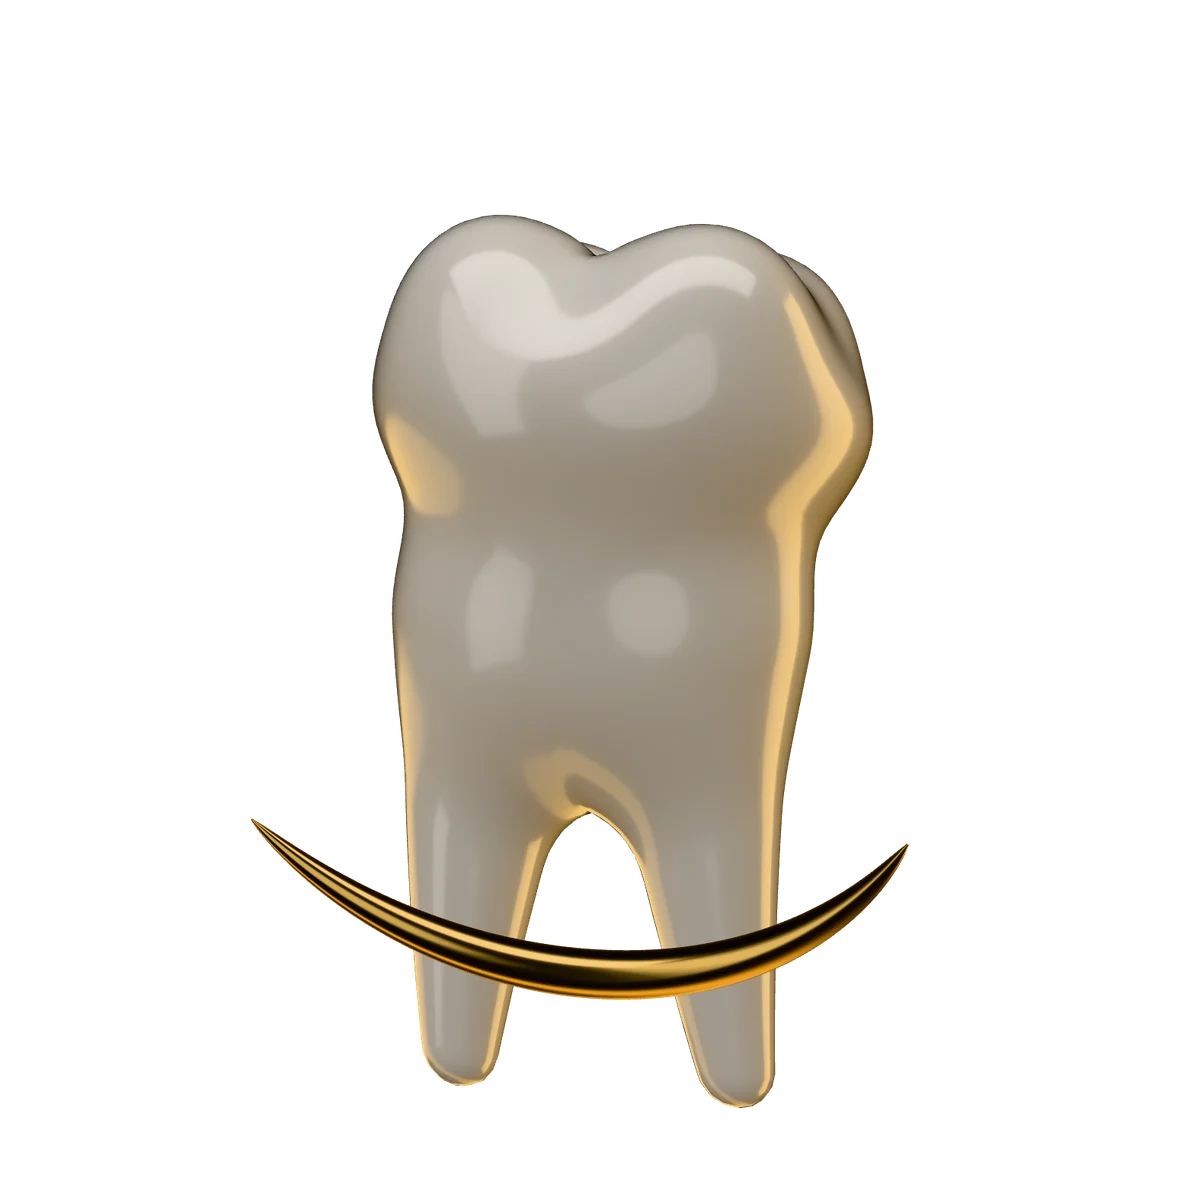
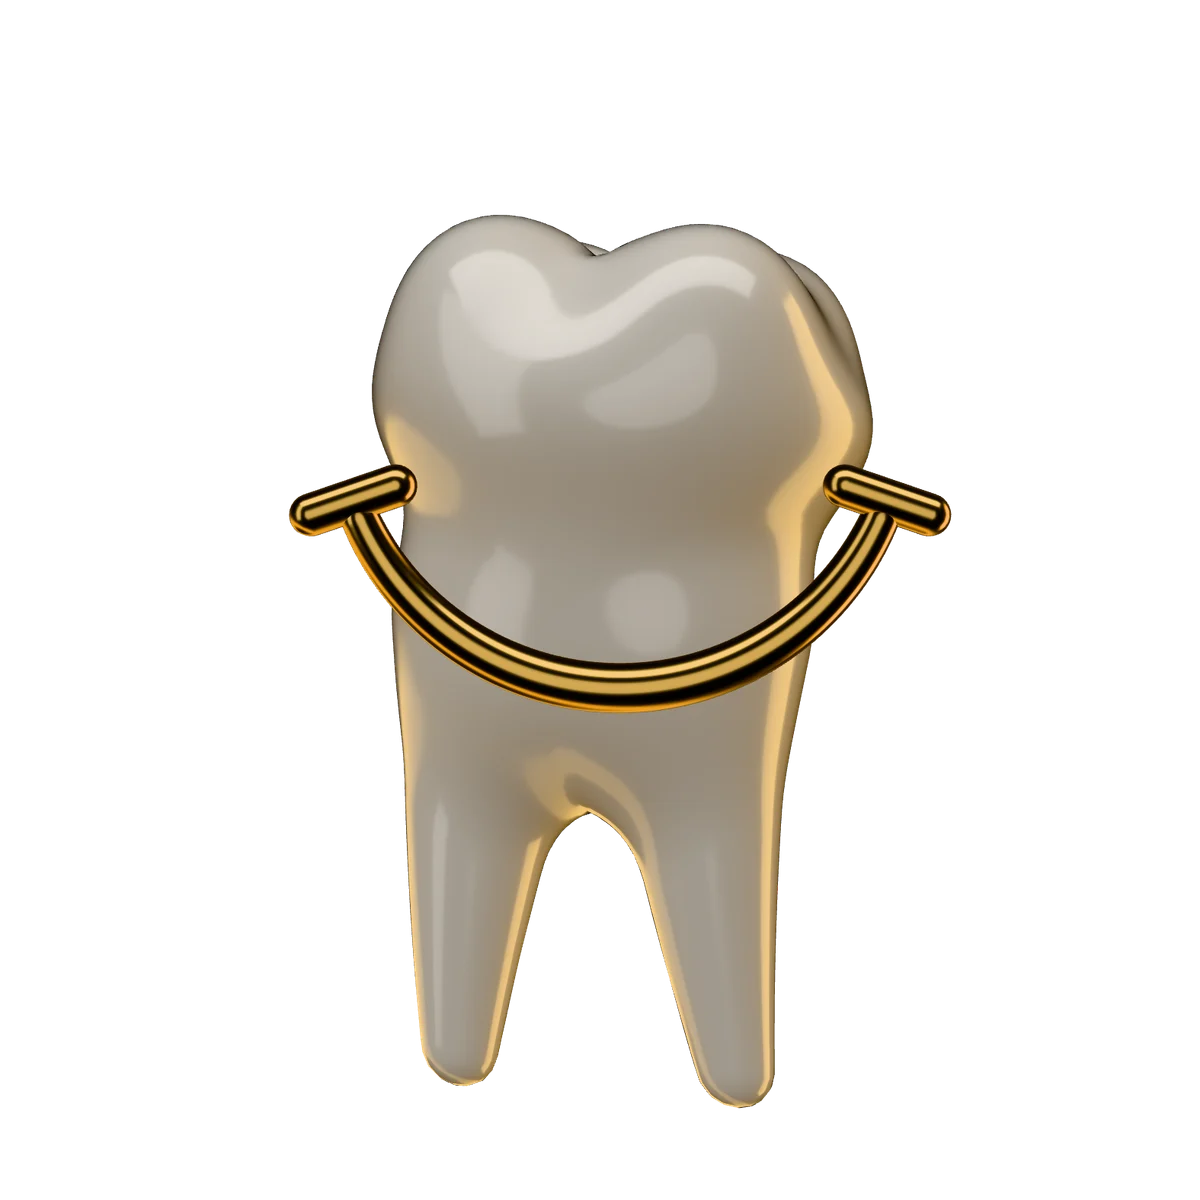
Hero: zlatni osmijeh kao smajli preko sredine zuba
Osmijeh je sada simetričan luk sa crticama na oba kraja, preko sredine zuba i okrenut prema posjetiocu.
Na telefonu je zub uvećan da popuni prostor bez praznih rubova; poster je ponovo izrenderan.

Changed region(s): [[0.2467, 0.37, 0.8017, 0.6167], [0.2158, 0.6783, 0.7708, 0.8325]]

diff --git a/src/components/three/ToothScene.tsx b/src/components/three/ToothScene.tsx
@@ -1,65 +1,12 @@
 'use client';
 
 import { useEffect, useRef } from 'react';
-import {
-  BufferAttribute,
-  BufferGeometry,
-  Color,
-  DoubleSide,
-  Group,
-  MathUtils,
-  Mesh,
-  MeshBasicMaterial,
-  MeshPhysicalMaterial,
-  MeshStandardMaterial,
-  NeutralToneMapping,
-  PerspectiveCamera,
-  PlaneGeometry,
-  PMREMGenerator,
-  RingGeometry,
-  Scene,
-  WebGLRenderer,
-} from 'three';
+import { Group, MathUtils, Mesh, PerspectiveCamera, Scene, Vector3 } from 'three';
 import { buildSmileGeometry } from './smile';
+import { createRenderer, goldMetal, loadLayers, porcelain, studioEnvironment } from './studio';
 
-const SMILE_ARC = Math.PI * 0.62;
+const SMILE_ARC = Math.PI * 0.8;
 const SPIN_START = -0.35;
-const GOLD = '#c9a35c';
-
-type Panel = { color: string; intensity: number; at: [number, number, number]; size: [number, number]; ring?: number };
-
-// White soft boxes plus a gold rim light, baked once into an environment map.
-const PANELS: Panel[] = [
-  { color: '#ffffff', intensity: 2.6, at: [0, 5, 2], size: [10, 3] },
-  { color: '#ffffff', intensity: 1.4, at: [-6, 1, 3], size: [3, 8] },
-  { color: GOLD, intensity: 7, at: [6, -1, -2], size: [3, 10] },
-  { color: '#ffffff', intensity: 1.2, at: [0, 0, 9], size: [4, 4], ring: 0 },
-  { color: GOLD, intensity: 3, at: [-3, -5, -4], size: [6, 6], ring: 0.5 },
-];
-
-function studioEnvironment(renderer: WebGLRenderer) {
-  const scene = new Scene();
-  for (const p of PANELS) {
-    const panel = new Mesh(
-      p.ring === undefined ? new PlaneGeometry(1, 1) : new RingGeometry(p.ring, 1, 48),
-      new MeshBasicMaterial({ color: new Color(p.color).multiplyScalar(p.intensity), side: DoubleSide }),
-    );
-    panel.position.set(...p.at);
-    panel.scale.set(p.size[0], p.size[1], 1);
-    panel.lookAt(0, 0, 0);
-    scene.add(panel);
-  }
-  const pmrem = new PMREMGenerator(renderer);
-  const target = pmrem.fromScene(scene, 0.02);
-  pmrem.dispose();
-  scene.traverse((o) => {
-    if (o instanceof Mesh) {
-      o.geometry.dispose();
-      (o.material as MeshBasicMaterial).dispose();
-    }
-  });
-  return target;
-}
 
 /** Live porcelain tooth. Desktop only; phones get the pre-rendered poster of the same frame. */
 export default function ToothScene({ className, onReady }: { className?: string; onReady: () => void }) {
@@ -68,11 +15,7 @@ export default function ToothScene({ className, onReady }: { className?: string;
 
   useEffect(() => {
     const el = host.current!;
-    const renderer = new WebGLRenderer({ antialias: true, alpha: true, powerPreference: 'high-performance' });
-    renderer.setPixelRatio(Math.min(window.devicePixelRatio, 1.75));
-    renderer.toneMapping = NeutralToneMapping;
-    renderer.domElement.style.cssText = 'display:block;width:100%;height:100%';
-    el.appendChild(renderer.domElement);
+    const renderer = createRenderer(el);
 
     const scene = new Scene();
     const camera = new PerspectiveCamera(30, 1, 0.1, 50);
@@ -85,25 +28,15 @@ export default function ToothScene({ className, onReady }: { className?: string;
     group.position.y = -0.08;
     scene.add(group);
 
-    const tooth = new Mesh(
-      new BufferGeometry(),
-      new MeshPhysicalMaterial({
-        color: '#f3eee4',
-        roughness: 0.24,
-        clearcoat: 1,
-        clearcoatRoughness: 0.05,
-        envMapIntensity: 1.15,
-      }),
-    );
+    const tooth = new Mesh(undefined, porcelain());
     tooth.scale.setScalar(1.22);
     tooth.rotation.z = -0.1;
-    const smile = new Mesh(
-      buildSmileGeometry(SMILE_ARC),
-      new MeshStandardMaterial({ color: GOLD, metalness: 1, roughness: 0.2, envMapIntensity: 1.6 }),
-    );
-    smile.position.set(0.04, 0.02, 0.62);
-    smile.rotation.set(0.55, 0, -Math.PI / 2 - SMILE_ARC / 2);
-    smile.scale.setScalar(0.92);
+    // Across the middle of the tooth, floating just in front of it and face-on in the opening
+    // pose (it turns with the tooth, so undo the starting spin), so it reads like the logo.
+    const smile = new Mesh(buildSmileGeometry(SMILE_ARC), goldMetal());
+    smile.position.set(0.04, 0.45, 0.86).applyAxisAngle(new Vector3(0, 1, 0), -SPIN_START);
+    smile.rotation.set(0.15, -SPIN_START, -Math.PI / 2 - SMILE_ARC / 2, 'YXZ');
+    smile.scale.setScalar(0.55);
     group.add(tooth, smile);
 
     const resize = () => {
@@ -157,24 +90,23 @@ export default function ToothScene({ className, onReady }: { className?: string;
       };
     }
 
-    const worker = new Worker(new URL('./tooth.worker.ts', import.meta.url), { type: 'module' });
-    worker.onmessage = async ({ data }: MessageEvent<{ position: Float32Array; normal: Float32Array }>) => {
-      worker.terminate();
-      tooth.geometry.setAttribute('position', new BufferAttribute(data.position, 3));
-      tooth.geometry.setAttribute('normal', new BufferAttribute(data.normal, 3));
-      tooth.geometry.computeBoundingSphere();
+    const build = loadLayers(['enamel'], 84);
+    let disposed = false;
+    build.done.then(async ({ enamel }) => {
+      if (disposed || !enamel) return;
+      tooth.geometry = enamel;
       await renderer.compileAsync(scene, camera); // compiles shaders without freezing the page
-      if (!host.current) return;
+      if (disposed) return;
       renderer.render(scene, camera);
       started = true;
       last = performance.now();
       if (visible) renderer.setAnimationLoop(tick);
       ready.current();
-    };
-    worker.postMessage(84);
+    });
 
     return () => {
-      worker.terminate();
+      disposed = true;
+      build.cancel();
       io.disconnect();
       ro.disconnect();
       window.removeEventListener('pointermove', onMove);

diff --git a/src/components/three/smile.ts b/src/components/three/smile.ts
@@ -1,20 +1,37 @@
-import { TorusGeometry, Vector3 } from 'three';
+import { CapsuleGeometry, Matrix4, TorusGeometry, Vector3 } from 'three';
+import { mergeGeometries } from 'three/addons/utils/BufferGeometryUtils.js';
 
-/** The gold "smile" from the logo: a torus arc that tapers to points at both ends. */
-export function buildSmileGeometry(arc = Math.PI * 0.62, radius = 1, tube = 0.06) {
-  const geometry = new TorusGeometry(radius, tube, 24, 220, arc);
-  const pos = geometry.attributes.position;
+/**
+ * A smiley's mouth (no eyes): an even U-shaped stroke, a little fuller at the bottom, with a
+ * short dash across each end, perpendicular to the curve.
+ */
+export function buildSmileGeometry(arc = Math.PI * 0.8, tube = 0.09) {
+  const mouth = new TorusGeometry(1, tube, 24, 200, arc);
+  const pos = mouth.attributes.position;
   const p = new Vector3();
   const c = new Vector3();
+  const cap = tube / arc; // round the ends over one tube radius
   for (let i = 0; i < pos.count; i++) {
     p.fromBufferAttribute(pos, i);
     const theta = Math.atan2(p.y, p.x);
     const u = Math.min(Math.max((theta < -0.01 ? theta + Math.PI * 2 : theta) / arc, 0), 1);
-    const taper = Math.max(Math.pow(Math.sin(Math.PI * u), 0.65), 0.04);
-    c.set(Math.cos(theta) * radius, Math.sin(theta) * radius, 0);
-    p.sub(c).multiplyScalar(taper).add(c);
+    const t = Math.min(1, Math.min(u, 1 - u) / cap);
+    const scale = (0.75 + 0.25 * Math.sin(Math.PI * u)) * Math.max(Math.sqrt(1 - (1 - t) ** 2), 0.05);
+    c.set(Math.cos(theta), Math.sin(theta), 0);
+    p.sub(c).multiplyScalar(scale).add(c);
     pos.setXYZ(i, p.x, p.y, p.z);
   }
-  geometry.computeVertexNormals();
+  mouth.computeVertexNormals();
+
+  const dashes = [0.015, arc - 0.015].map((theta) => {
+    const dash = new CapsuleGeometry(tube * 0.85, 0.32, 8, 16);
+    // the capsule lies along y; turn it to point outward from the centre, then centre it on the end
+    dash.applyMatrix4(new Matrix4().makeRotationZ(theta - Math.PI / 2));
+    dash.applyMatrix4(new Matrix4().makeTranslation(Math.cos(theta), Math.sin(theta), 0));
+    return dash;
+  });
+
+  const geometry = mergeGeometries([mouth, ...dashes])!;
+  [mouth, ...dashes].forEach((g) => g.dispose());
   return geometry;
 }

diff --git a/src/components/three/HeroTooth.tsx b/src/components/three/HeroTooth.tsx
@@ -59,8 +59,12 @@ export function HeroTooth({ className }: { className?: string }) {
 
   return (
     <div ref={root} aria-hidden className={className}>
-      <div className="tooth-poster absolute inset-0 transition-opacity duration-700" style={{ opacity: live ? 0 : 1 }}>
-        <Image src={poster} alt="" fill loading="eager" fetchPriority="high" sizes="(min-width: 1024px) 60vw, 100vw" className="object-contain" />
+      {/* phones: zoomed in so the tooth, not the empty render margin, fills the box */}
+      <div
+        className="tooth-poster absolute inset-0 transition-opacity duration-700 max-lg:origin-[50%_82%] max-lg:scale-[1.23]"
+        style={{ opacity: live ? 0 : 1 }}
+      >
+        <Image src={poster} alt="" fill loading="eager" fetchPriority="high" sizes="(min-width: 1024px) 60vw, 120vw" className="object-contain" />
       </div>
       {load && (
         <div className="absolute inset-0 transition-opacity duration-700" style={{ opacity: live ? 1 : 0 }}>
